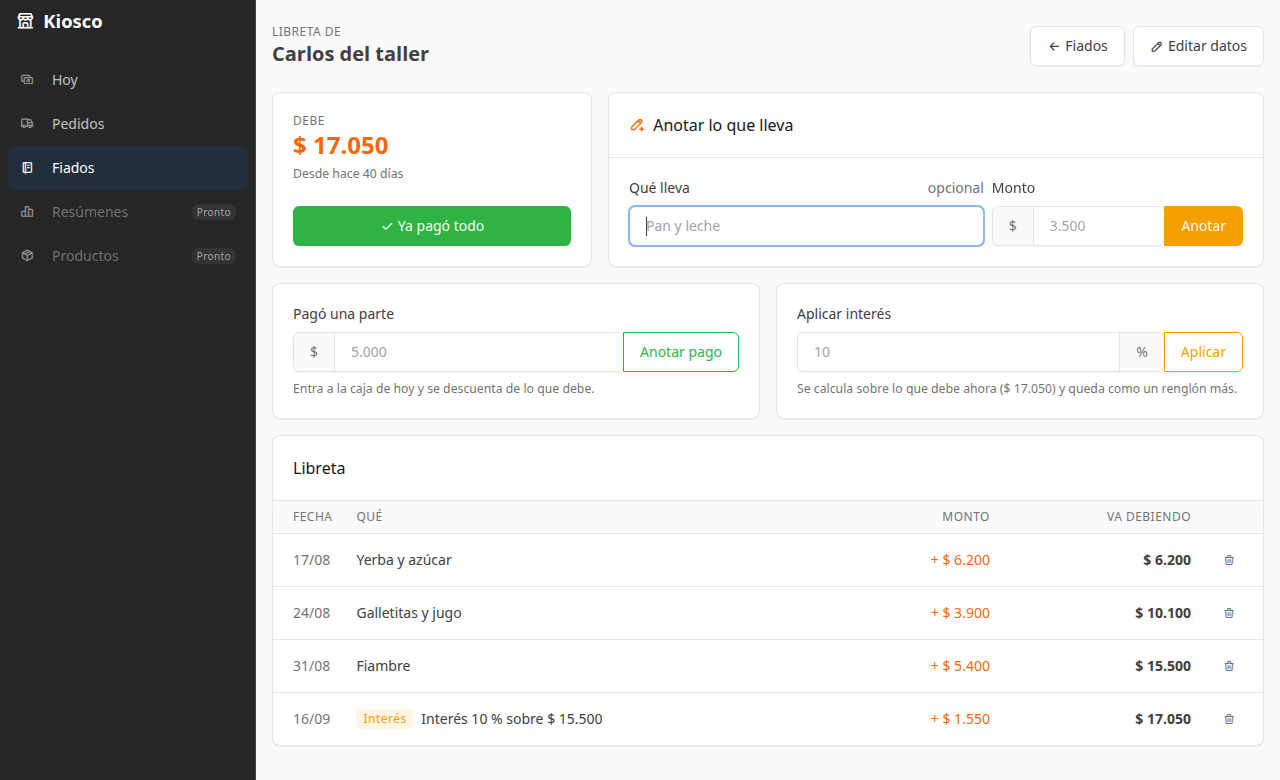
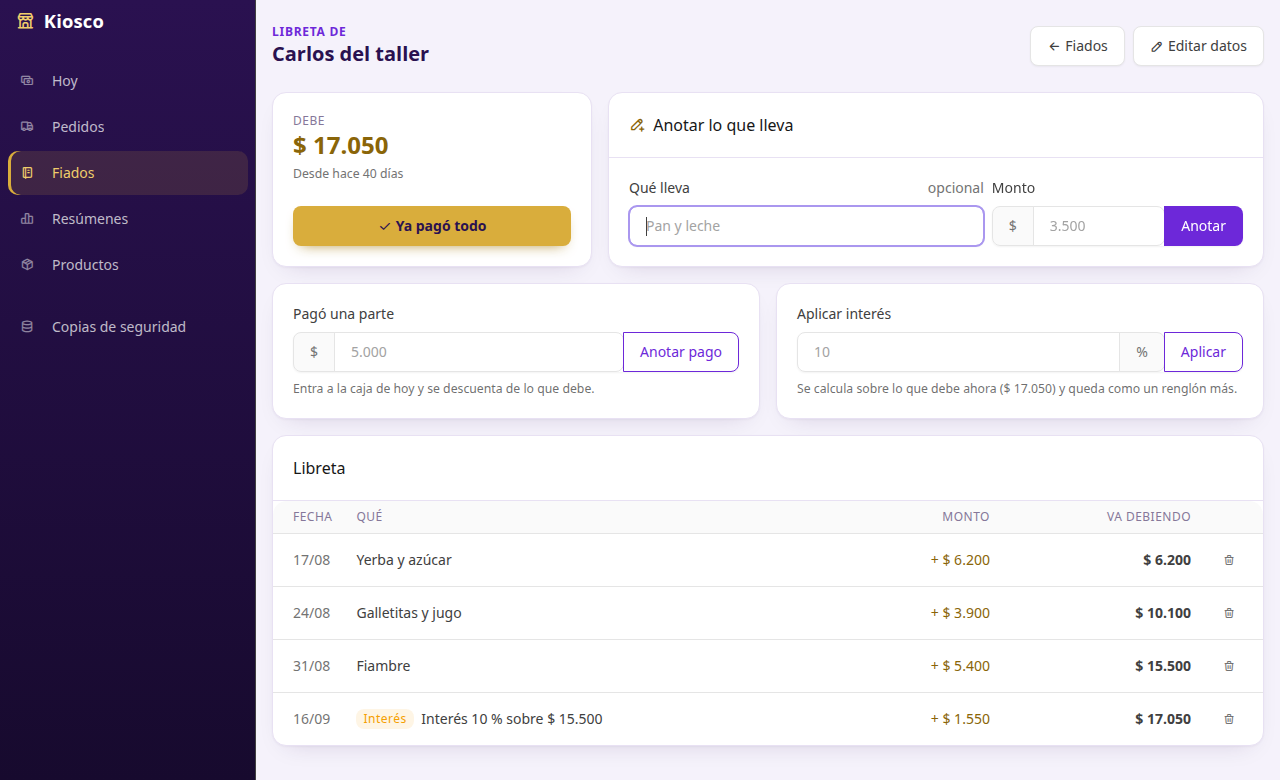
Tema morado y dorado con estilo moderno
Menú lateral morado oscuro con el ítem activo en dorado, botones morados, botón dorado
para Ya pagó, fondo lavanda y tarjetas redondeadas. Los gráficos usan morado (vendido)
y dorado oscuro (pedidos), validados para contraste y daltonismo. Ícono nuevo.

diff --git a/src/main/resources/templates/cliente.html b/src/main/resources/templates/cliente.html
@@ -38,9 +38,9 @@
                             <div class="card-body d-flex flex-column">
                                 <th:block th:if="${cuenta.debe()}">
                                     <div class="subheader">Debe</div>
-                                    <div class="h1 mb-1 text-orange" th:text="${debe}">$ 12.300</div>
+                                    <div class="h1 mb-1 text-dorado" th:text="${debe}">$ 12.300</div>
                                     <div class="text-secondary small mb-3" th:text="|Desde ${@fmt.haceCuanto(cuenta.desde)}|">Desde hace 12 días</div>
-                                    <button type="button" class="btn btn-success w-100 mt-auto"
+                                    <button type="button" class="btn btn-dorado w-100 mt-auto"
                                             th:attr="hx-post=@{/fiados/{id}/pago-total(id=${id})},
                                                      hx-confirm=|¿${cuenta.cliente.nombre} pagó los ${debe}? Entra a la caja de hoy y la cuenta queda en cero.|"
                                             hx-target="#panel-cliente" hx-swap="outerHTML">
@@ -59,7 +59,7 @@
                         <form class="card h-100" method="post" th:action="@{/fiados/{id}/anotar(id=${id})}" th:object="${fiadoForm}"
                               th:attr="hx-post=@{/fiados/{id}/anotar(id=${id})}" hx-target="#panel-cliente" hx-swap="outerHTML">
                             <div class="card-header">
-                                <h3 class="card-title"><i class="ti ti-pencil-plus text-orange me-2" aria-hidden="true"></i>Anotar lo que lleva</h3>
+                                <h3 class="card-title"><i class="ti ti-pencil-plus text-dorado me-2" aria-hidden="true"></i>Anotar lo que lleva</h3>
                             </div>
                             <div class="card-body">
                                 <div class="row g-2">
@@ -79,7 +79,7 @@
                                                    class="form-control monto" placeholder="3.500"
                                                    th:field="*{monto}" th:classappend="${errorLleva != null} ? 'is-invalid'"
                                                    th:autofocus="${errorLleva != null}">
-                                            <button class="btn btn-warning" type="submit">Anotar</button>
+                                            <button class="btn btn-primary" type="submit">Anotar</button>
                                             <div class="invalid-feedback" th:if="${errorLleva != null}" th:text="${errorLleva}"></div>
                                         </div>
                                     </div>
@@ -101,7 +101,7 @@
                                            class="form-control monto" placeholder="5.000"
                                            th:value="${montoPago}" th:classappend="${errorPago != null} ? 'is-invalid'"
                                            th:autofocus="${errorPago != null}">
-                                    <button class="btn btn-outline-success" type="submit">Anotar pago</button>
+                                    <button class="btn btn-outline-primary" type="submit">Anotar pago</button>
                                     <div class="invalid-feedback" th:if="${errorPago != null}" th:text="${errorPago}"></div>
                                 </div>
                                 <small class="form-hint">Entra a la caja de hoy y se descuenta de lo que debe.</small>
@@ -119,7 +119,7 @@
                                            th:value="${porcentaje}" th:classappend="${errorInteres != null} ? 'is-invalid'"
                                            th:autofocus="${errorInteres != null}">
                                     <span class="input-group-text">%</span>
-                                    <button class="btn btn-outline-warning" type="submit">Aplicar</button>
+                                    <button class="btn btn-outline-primary" type="submit">Aplicar</button>
                                     <div class="invalid-feedback" th:if="${errorInteres != null}" th:text="${errorInteres}"></div>
                                 </div>
                                 <small class="form-hint" th:text="|Se calcula sobre lo que debe ahora (${debe}) y queda como un renglón más.|"></small>
@@ -155,7 +155,7 @@
                                     <span class="badge bg-yellow-lt me-1" th:if="${m.tipo.name() == 'INTERES'}">Interés</span>
                                     <span th:text="${m.descripcion ?: (m.tipo.name() == 'LLEVO' ? 'Fiado' : '')}">Pan y leche</span>
                                 </td>
-                                <td class="text-end monto" th:classappend="${m.tipo.aumentaLaDeuda} ? 'text-orange' : 'text-green'"
+                                <td class="text-end monto" th:classappend="${m.tipo.aumentaLaDeuda} ? 'text-dorado' : 'text-green'"
                                     th:text="${@fmt.plataConSigno(m.monto, m.tipo.aumentaLaDeuda)}">+ $ 3.500</td>
                                 <td class="text-end monto fw-bold" th:text="${@fmt.plata(r.saldo)}">$ 12.300</td>
                                 <td>
@@ -198,7 +198,7 @@
                                     <tr th:each="m : ${cs.renglones}">
                                         <td class="text-secondary monto w-1" th:text="${@fmt.fechaCorta(m.fecha)}">10/09</td>
                                         <td th:text="${m.detalle}">Pan y leche</td>
-                                        <td class="text-end monto" th:classappend="${m.tipo.aumentaLaDeuda} ? 'text-orange' : 'text-green'"
+                                        <td class="text-end monto" th:classappend="${m.tipo.aumentaLaDeuda} ? 'text-dorado' : 'text-green'"
                                             th:text="${@fmt.plataConSigno(m.monto, m.tipo.aumentaLaDeuda)}">+ $ 2.300</td>
                                     </tr>
                                     </tbody>

diff --git a/src/main/resources/static/css/kiosco.css b/src/main/resources/static/css/kiosco.css
@@ -1,3 +1,119 @@
+/* ---------- Tema: morado y dorado ----------
+   Tabler arma sus tonos a partir de --tblr-primary: cambiándolo acá se tiñen botones,
+   enlaces, casillas y focos. El verde (entró) y el rojo (salió) se mantienen a propósito. */
+:root {
+    --kiosco-morado: #6d28d9;
+    --kiosco-morado-oscuro: #2a1150;
+    --kiosco-morado-noche: #170a2e;
+    --kiosco-dorado: #d9ad3c;
+    --kiosco-dorado-claro: #f0cd6b;
+    /* Dorado para texto sobre blanco: contraste 5,3:1 */
+    --kiosco-dorado-texto: #8a6508;
+    --kiosco-lavanda: #f5f2fb;
+    --kiosco-borde: #e8e1f3;
+    --kiosco-texto-suave: #857799;
+
+    --tblr-primary: var(--kiosco-morado);
+    --tblr-primary-rgb: 109, 40, 217;
+    --tblr-primary-fg: #ffffff;
+    --tblr-primary-lt-rgb: 240, 233, 251;
+    --tblr-link-color: var(--kiosco-morado);
+    --tblr-link-color-rgb: 109, 40, 217;
+    --tblr-body-bg: var(--kiosco-lavanda);
+    --tblr-border-radius: 8px;
+    --tblr-border-radius-lg: 14px;
+}
+
+/* Menú lateral: morado oscuro con el ítem activo en dorado */
+.navbar-vertical.navbar {
+    background: linear-gradient(180deg, var(--kiosco-morado-oscuro) 0%, var(--kiosco-morado-noche) 100%);
+    border-right: 0;
+}
+
+.navbar-vertical .navbar-brand {
+    color: #ffffff;
+    letter-spacing: .01em;
+}
+
+.navbar-vertical .navbar-brand .ti {
+    color: var(--kiosco-dorado-claro);
+}
+
+.navbar-vertical .navbar-nav .nav-link {
+    margin: 1px 0;
+    border-radius: 10px;
+    color: rgba(255, 255, 255, .72);
+}
+
+.navbar-vertical .navbar-nav .nav-link:hover {
+    color: #ffffff;
+    background: rgba(255, 255, 255, .06);
+}
+
+.navbar-vertical[class*=navbar-expand] .navbar-nav .nav-item.active > .nav-link {
+    color: var(--kiosco-dorado-claro);
+    background: rgba(217, 173, 60, .14);
+    box-shadow: inset 3px 0 0 var(--kiosco-dorado);
+}
+
+/* Encabezados y tarjetas */
+.page-pretitle {
+    color: var(--kiosco-morado);
+    font-weight: 600;
+    letter-spacing: .06em;
+}
+
+.page-title {
+    color: var(--kiosco-morado-oscuro);
+}
+
+.card {
+    --tblr-card-border-color: var(--kiosco-borde);
+    box-shadow: 0 1px 2px rgba(42, 17, 80, .04), 0 10px 24px -14px rgba(42, 17, 80, .18);
+}
+
+.card-header,
+.card-footer {
+    border-color: var(--kiosco-borde);
+}
+
+.card-footer {
+    background: #fbf9fe;
+}
+
+.subheader,
+.card-table thead th {
+    color: var(--kiosco-texto-suave);
+}
+
+.btn-primary {
+    box-shadow: 0 6px 14px -8px rgba(109, 40, 217, .8);
+}
+
+/* Botón dorado, para cuando entra plata de un fiado ("Ya pagó") */
+.btn-dorado {
+    --tblr-btn-color: var(--kiosco-morado-oscuro);
+    --tblr-btn-bg: var(--kiosco-dorado);
+    --tblr-btn-border-color: transparent;
+    --tblr-btn-hover-color: var(--kiosco-morado-oscuro);
+    --tblr-btn-hover-bg: #cc9f2f;
+    --tblr-btn-hover-border-color: transparent;
+    --tblr-btn-active-color: var(--kiosco-morado-oscuro);
+    --tblr-btn-active-bg: #bd9227;
+    --tblr-btn-active-border-color: transparent;
+    font-weight: 600;
+    box-shadow: 0 6px 14px -8px rgba(160, 118, 12, .9);
+}
+
+.text-dorado {
+    color: var(--kiosco-dorado-texto) !important;
+}
+
+.bg-dorado-lt {
+    background-color: rgba(217, 173, 60, .18) !important;
+    color: var(--kiosco-dorado-texto) !important;
+}
+
 /* Números alineados en columnas para que los montos se lean de un vistazo */
 .monto {
     font-variant-numeric: tabular-nums;
@@ -22,8 +138,8 @@
 
 /* Proveedor cuyo preventista viene hoy */
 .card-viene-hoy {
-    border-color: var(--tblr-green);
-    box-shadow: 0 0 0 1px var(--tblr-green);
+    border-color: var(--kiosco-dorado);
+    box-shadow: 0 0 0 1px var(--kiosco-dorado), 0 10px 24px -14px rgba(160, 118, 12, .5);
 }
 
 /* "Boleta + Llegó": ancho justo para un monto, alineado a la derecha */
@@ -34,10 +150,11 @@
 
 /* ---------- Gráficos de columnas (resúmenes) ----------
    Colores validados contra el fondo de las tarjetas (contraste y daltonismo):
-   serie 1 = Vendido, serie 2 = Pagado en pedidos. El color sigue a la serie en todos los gráficos. */
+   serie 1 = Vendido (morado), serie 2 = Pagado en pedidos (dorado oscuro, 3,25:1 sobre blanco).
+   El color sigue a la serie en todos los gráficos. */
 .grafico {
-    --serie-1: #2a78d6;
-    --serie-2: #eb6834;
+    --serie-1: #6d28d9;
+    --serie-2: #b8860b;
     --grafico-alto: 13rem;
     --grafico-eje: 4.5rem;
     margin: 0;

diff --git a/src/main/resources/templates/hoy.html b/src/main/resources/templates/hoy.html
@@ -36,7 +36,7 @@
                     <a class="btn btn-sm ms-2" th:href="@{/copias}">Ver copias</a>
                 </div>
 
-                <div class="alert alert-info d-flex align-items-center" role="status" th:if="${avisoPreventistas != null}">
+                <div class="alert alert-primary d-flex align-items-center" role="status" th:if="${avisoPreventistas != null}">
                     <i class="ti ti-user-check me-2" aria-hidden="true"></i>
                     <span class="flex-fill" th:text="${avisoPreventistas}">Hoy viene el preventista de Coca-Cola.</span>
                     <a class="btn btn-sm ms-2" th:href="@{/pedidos}">Ver qué pedirle</a>
@@ -103,7 +103,7 @@
                         <form class="card h-100" method="post" th:action="@{/movimientos/venta}" th:object="${ventaForm}"
                               hx-post="/movimientos/venta" hx-target="#panel-dia" hx-swap="outerHTML">
                             <div class="card-header">
-                                <h3 class="card-title"><i class="ti ti-shopping-cart text-green me-2" aria-hidden="true"></i>Anotar venta</h3>
+                                <h3 class="card-title"><i class="ti ti-shopping-cart text-primary me-2" aria-hidden="true"></i>Anotar venta</h3>
                             </div>
                             <div class="card-body">
                                 <input type="hidden" name="fecha" th:unless="${esHoy}" th:value="${fecha}">
@@ -148,7 +148,7 @@
                                 <span class="text-green small" th:if="${avisoVenta != null}">
                                     <i class="ti ti-check me-1" aria-hidden="true"></i><span th:text="${avisoVenta}"></span>
                                 </span>
-                                <button class="btn btn-success ms-auto" type="submit">
+                                <button class="btn btn-primary ms-auto" type="submit">
                                     <i class="ti ti-plus me-1" aria-hidden="true"></i>Anotar venta
                                 </button>
                             </div>
@@ -208,7 +208,7 @@
 
                 <div class="card mb-3" th:if="${!pedidosParaHoy.isEmpty() or avisoPedido != null}">
                     <div class="card-header">
-                        <h3 class="card-title"><i class="ti ti-truck text-blue me-2" aria-hidden="true"></i>Pedidos por llegar</h3>
+                        <h3 class="card-title"><i class="ti ti-truck text-primary me-2" aria-hidden="true"></i>Pedidos por llegar</h3>
                         <div class="card-actions"><a class="small" th:href="@{/pedidos}">Ver todos</a></div>
                     </div>
                     <div class="card-body py-2" th:if="${avisoPedido != null}">
@@ -226,7 +226,7 @@
                                 </td>
                                 <td>
                                     <span class="badge"
-                                          th:classappend="${pe.atrasado(hoy)} ? 'bg-yellow-lt' : (${pe.fechaEstimada == null} ? 'bg-secondary-lt' : 'bg-blue-lt')"
+                                          th:classappend="${pe.atrasado(hoy)} ? 'bg-yellow-lt' : (${pe.fechaEstimada == null} ? 'bg-secondary-lt' : 'bg-primary-lt')"
                                           th:text="${pe.cuandoLlega(hoy)}">Llega hoy</span>
                                 </td>
                                 <td th:replace="~{pedidos :: form-llego(${pe}, '/hoy/pedidos/' + ${pe.id} + '/llego', '#panel-dia')}"></td>

diff --git a/src/main/resources/templates/fiados.html b/src/main/resources/templates/fiados.html
@@ -24,7 +24,7 @@
                         <form class="card h-100" method="post" th:action="@{/fiados/anotar}" th:object="${fiadoForm}"
                               hx-post="/fiados/anotar" hx-target="#panel-fiados" hx-swap="outerHTML">
                             <div class="card-header">
-                                <h3 class="card-title"><i class="ti ti-pencil-plus text-orange me-2" aria-hidden="true"></i>Anotar fiado</h3>
+                                <h3 class="card-title"><i class="ti ti-pencil-plus text-dorado me-2" aria-hidden="true"></i>Anotar fiado</h3>
                             </div>
                             <div class="card-body">
                                 <div class="row g-2">
@@ -62,7 +62,7 @@
                             </div>
                             <div class="card-footer d-flex align-items-center">
                                 <span class="text-secondary small">Si es la primera vez que lleva fiado, se agrega solo a la lista.</span>
-                                <button class="btn btn-warning ms-auto" type="submit">
+                                <button class="btn btn-primary ms-auto" type="submit">
                                     <i class="ti ti-plus me-1" aria-hidden="true"></i>Anotar
                                 </button>
                             </div>
@@ -72,7 +72,7 @@
                         <div class="card h-100">
                             <div class="card-body">
                                 <div class="subheader">Te deben en total</div>
-                                <div class="h1 mb-1 text-orange" th:text="${@fmt.plata(totalEnLaCalle)}">$ 0</div>
+                                <div class="h1 mb-1 text-dorado" th:text="${@fmt.plata(totalEnLaCalle)}">$ 0</div>
                                 <div class="text-secondary small"
                                      th:text="${abiertas.size() == 1} ? '1 cliente con cuenta abierta' : |${abiertas.size()} clientes con cuenta abierta|">
                                 </div>
@@ -110,7 +110,7 @@
                                 <td class="text-secondary" th:text="${c.ultimoPago != null} ? ${@fmt.haceCuanto(c.ultimoPago)} : 'Todavía no pagó'">ayer</td>
                                 <td class="text-end monto fw-bold" th:text="${debe}">$ 12.300</td>
                                 <td class="text-nowrap">
-                                    <button type="button" class="btn btn-success btn-sm"
+                                    <button type="button" class="btn btn-dorado btn-sm"
                                             th:attr="hx-post=@{/fiados/{id}/pago-total(id=${c.cliente.id})},
                                                      hx-confirm=|¿${c.cliente.nombre} pagó los ${debe}? Entra a la caja de hoy y la cuenta queda en cero.|"
                                             hx-target="#panel-fiados" hx-swap="outerHTML">

diff --git a/src/main/resources/templates/pedidos.html b/src/main/resources/templates/pedidos.html
@@ -48,7 +48,7 @@
                                         <span class="text-secondary" th:if="${p.diasPreventista.isEmpty()}">Sin día de preventista</span>
                                         <span class="text-secondary" th:unless="${p.diasPreventista.isEmpty()}"
                                               th:text="|Preventista: ${@fmt.dias(p.diasPreventista)}|">Preventista: martes y viernes</span>
-                                        <span class="badge bg-green-lt ms-1" th:if="${vieneHoy}">Viene hoy</span>
+                                        <span class="badge bg-dorado-lt ms-1" th:if="${vieneHoy}">Viene hoy</span>
                                     </div>
                                 </div>
                                 <div class="card-actions">
@@ -126,7 +126,7 @@
                                 </td>
                                 <td>
                                     <span class="badge"
-                                          th:classappend="${pe.atrasado(hoy)} ? 'bg-yellow-lt' : (${pe.fechaEstimada == null} ? 'bg-secondary-lt' : 'bg-blue-lt')"
+                                          th:classappend="${pe.atrasado(hoy)} ? 'bg-yellow-lt' : (${pe.fechaEstimada == null} ? 'bg-secondary-lt' : 'bg-primary-lt')"
                                           th:text="${pe.cuandoLlega(hoy)}">Llega mañana</span>
                                 </td>
                                 <td class="text-end monto text-secondary"
@@ -196,7 +196,7 @@
                    th:value="${conError} ? ${montoIngresado} : ''"
                    th:classappend="${conError} ? 'is-invalid'"
                    th:autofocus="${conError}">
-            <button class="btn btn-success" type="submit">
+            <button class="btn btn-primary" type="submit">
                 <i class="ti ti-check me-1" aria-hidden="true"></i>Llegó
             </button>
             <div class="invalid-feedback" th:if="${conError}" th:text="${errorLlegada}"></div>

diff --git a/src/main/resources/templates/fragmentos/resumen.html b/src/main/resources/templates/fragmentos/resumen.html
@@ -118,7 +118,7 @@
             <tr th:each="d : ${p.dias()}" th:with="t=${d.totales()}">
                 <td>
                     <a th:href="@{/(fecha=${d.fecha()})}" th:text="${@fmt.fechaLarga(d.fecha())}">Lunes 21 de septiembre</a>
-                    <span class="badge bg-blue-lt ms-1" th:if="${d.fecha() == hoy}">hoy</span>
+                    <span class="badge bg-primary-lt ms-1" th:if="${d.fecha() == hoy}">hoy</span>
                 </td>
                 <td class="text-end monto" th:classappend="${t.ventas().signum() == 0} ? 'text-muted'" th:text="${@fmt.plata(t.ventas())}">$ 85.300</td>
                 <td class="text-end monto" th:classappend="${t.cobrosFiado().signum() == 0} ? 'text-muted'" th:text="${@fmt.plata(t.cobrosFiado())}">$ 0</td>

diff --git a/src/main/resources/templates/resumenes.html b/src/main/resources/templates/resumenes.html
@@ -62,7 +62,7 @@
                             <td>
                                 <a th:href="@{/resumenes/{a}/{m}(a=${m.mes().year},m=${m.mes().monthValue})}"
                                    th:text="${@fmt.mes(m.mes())}">Septiembre 2026</a>
-                                <span class="badge bg-blue-lt ms-1" th:if="${m.enCurso()}">lo que va</span>
+                                <span class="badge bg-primary-lt ms-1" th:if="${m.enCurso()}">lo que va</span>
                             </td>
                             <td class="text-end monto" th:text="${@fmt.plata(t.ventas())}">$ 1.950.000</td>
                             <td class="text-end monto" th:text="${@fmt.plata(t.pagosPedidos())}">$ 620.000</td>

diff --git a/src/main/resources/templates/resumen-mes.html b/src/main/resources/templates/resumen-mes.html
@@ -8,7 +8,7 @@
             <div class="row g-3 align-items-center">
                 <div class="col">
                     <div class="page-pretitle">
-                        Resumen del mes <span class="badge bg-blue-lt ms-1" th:if="${enCurso}">lo que va</span>
+                        Resumen del mes <span class="badge bg-primary-lt ms-1" th:if="${enCurso}">lo que va</span>
                     </div>
                     <h2 class="page-title" th:text="${titulo}">Septiembre 2026</h2>
                 </div>

diff --git a/src/main/resources/templates/copias.html b/src/main/resources/templates/copias.html
@@ -34,7 +34,7 @@
 
             <div class="card mb-3" th:unless="${disponible}">
                 <div class="card-body">
-                    <i class="ti ti-info-circle me-1 text-blue" aria-hidden="true"></i>
+                    <i class="ti ti-info-circle me-1 text-primary" aria-hidden="true"></i>
                     Estás en modo demo: la base es de prueba y se borra al cerrar, así que no se hacen copias.
                 </div>
             </div>

diff --git a/README.md b/README.md
@@ -76,7 +76,7 @@ La caja funciona con montos: los productos no hacen falta. Sirven para dos cosas
 |---|---|
 | Backend | Java 21, Spring Boot 4.1 (Web MVC, Data JPA, Validation, Security) |
 | Persistencia | Hibernate 7, MySQL 8, migraciones con Flyway, copias de seguridad con mysqldump |
-| Interfaz | Thymeleaf, HTMX 2, plantilla [Tabler](https://tabler.io) (Bootstrap 5), empaquetadas como WebJars |
+| Interfaz | Thymeleaf, HTMX 2, plantilla [Tabler](https://tabler.io) (Bootstrap 5) con un tema propio morado y dorado, empaquetadas como WebJars |
 | Tests | JUnit 5, AssertJ, MockMvc, Spring Security Test, H2 en modo MySQL |
 
 ## Decisiones de diseño
